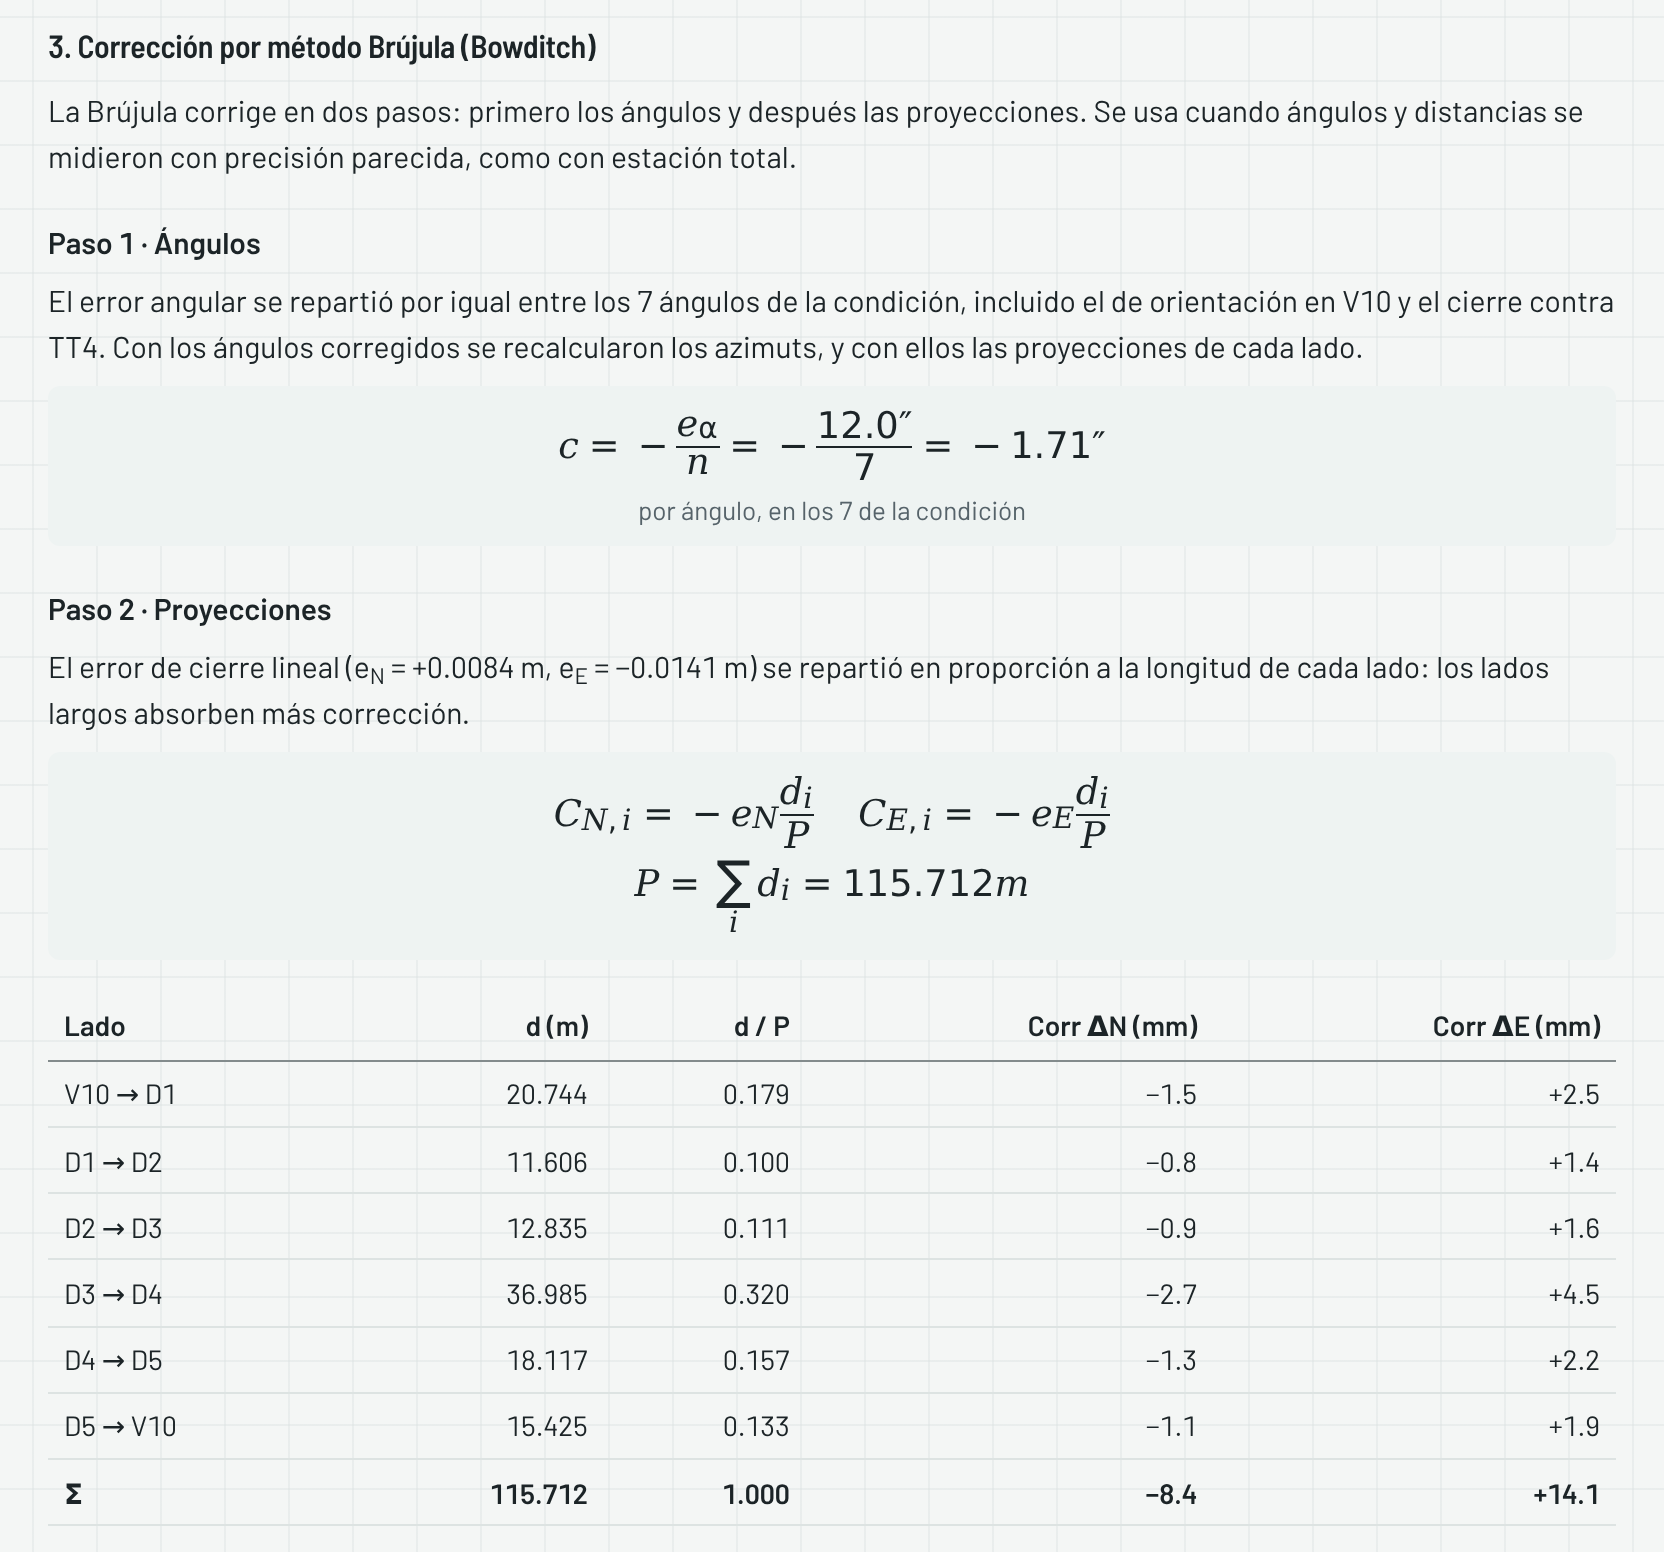
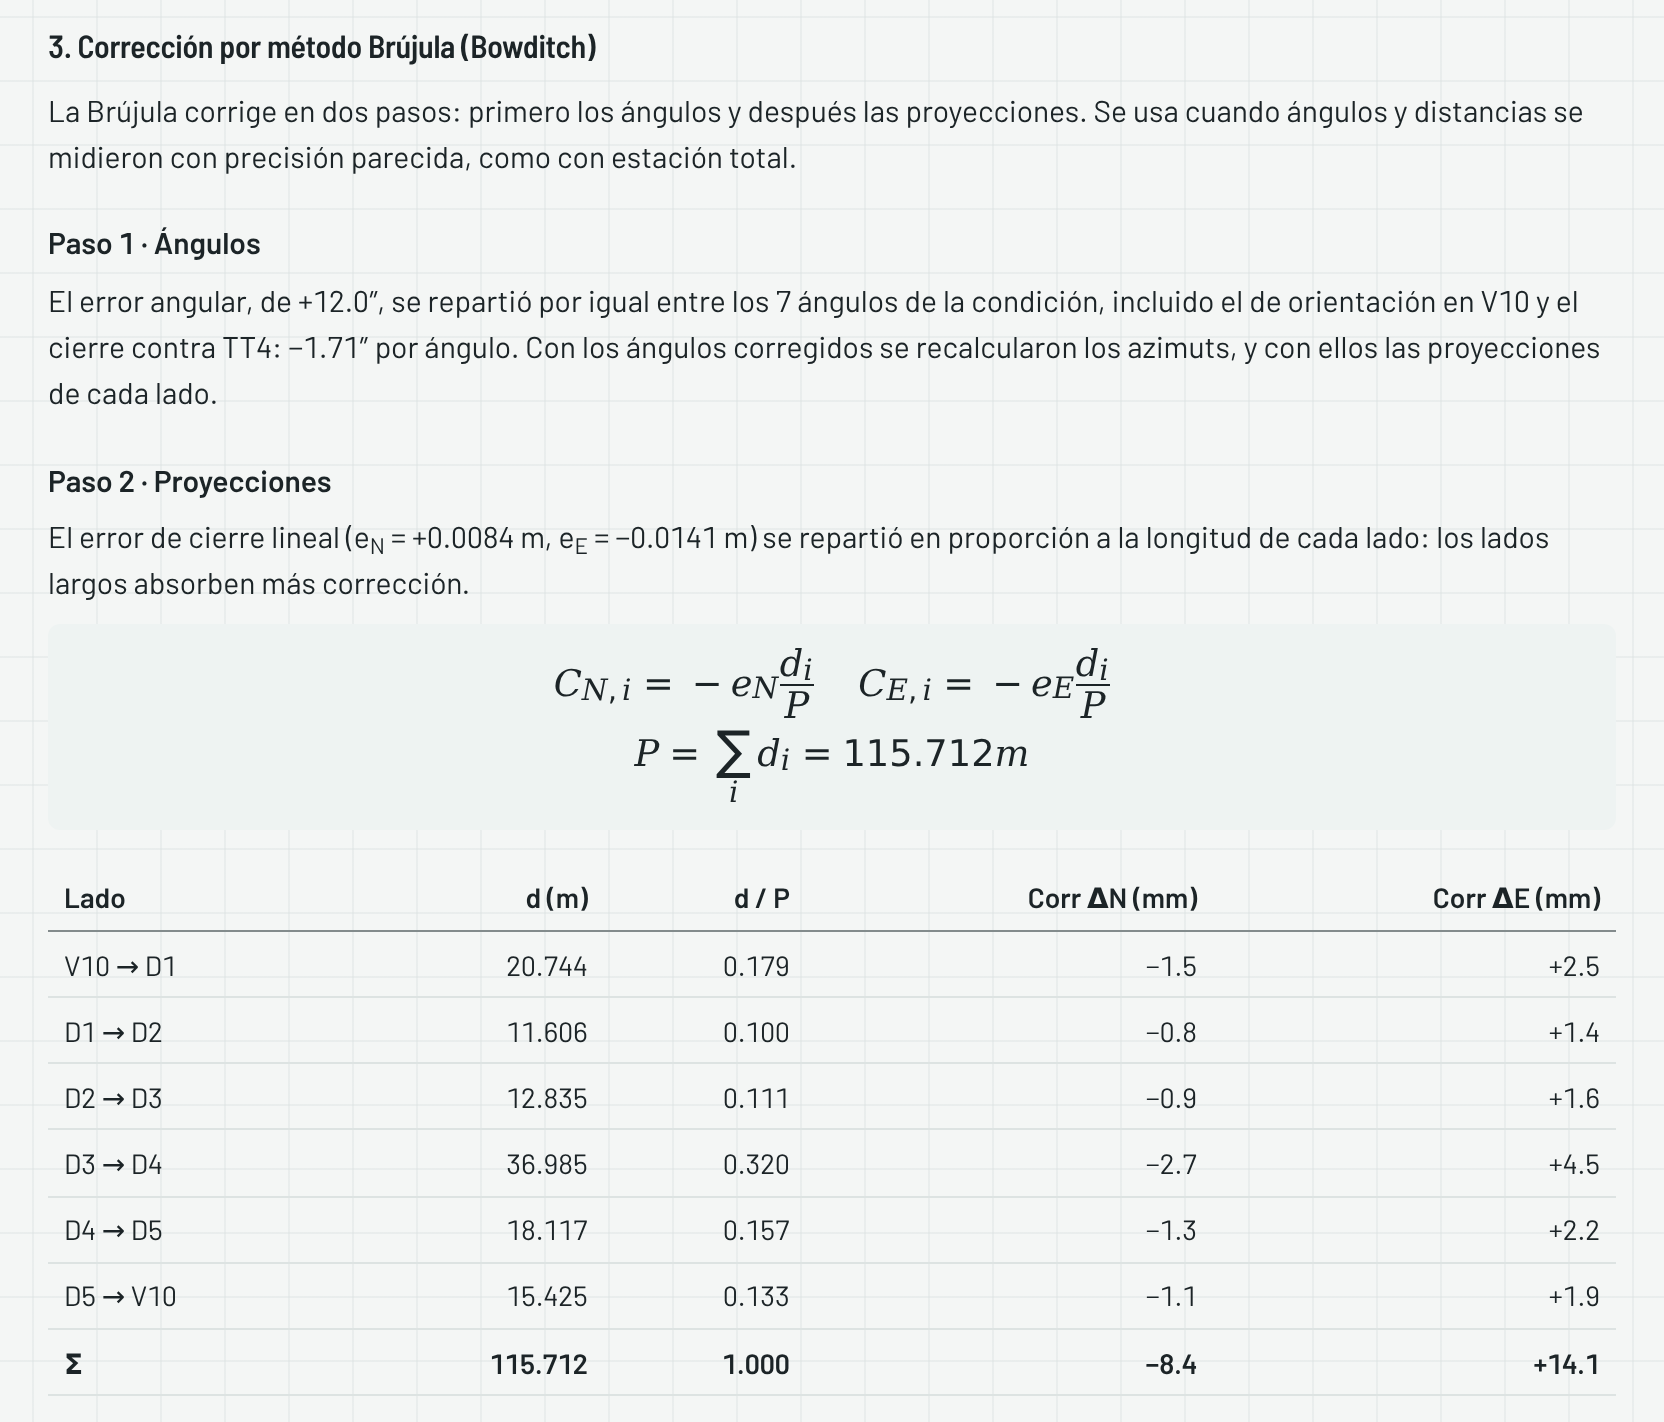
docs: el manual, con el informe como entregable (fase 40)

diff --git a/src/app/(app)/manual/page.tsx b/src/app/(app)/manual/page.tsx
@@ -1098,8 +1098,10 @@ export default function ManualPage() {
           </li>
           <li>
             <strong>Corrección por método …</strong>: cómo corrigió el método
-            elegido, paso a paso, con sus fórmulas en notación matemática y las
-            cifras de esta poligonal.
+            elegido, paso a paso, con las cifras de esta poligonal. El reparto
+            del error angular se dice con su valor por ángulo; el método de
+            ajuste —y, en mínimos cuadrados, la elipse de error— lleva su
+            fórmula en notación matemática.
           </li>
           <li>
             <strong>Poligonal ajustada</strong>, con la fila Σ.
@@ -2674,9 +2676,9 @@ export default function ManualPage() {
             las visitas se verifican (§ 7.9).
           </li>
           <li>
-            <strong>Cómo se calcula</strong>: cuatro fórmulas —la altura del
-            instrumento, la cota de cada punto, el acumulado y la velocidad— y
-            los umbrales del semáforo.
+            <strong>Cómo se calcula</strong>: en un párrafo, cómo salen la cota
+            de cada punto, el acumulado y la velocidad —con un mes de 30.4375
+            días—, y los umbrales del semáforo.
           </li>
           <li>
             <strong>Evolución</strong>: el acumulado de cada punto en el
@@ -2698,7 +2700,8 @@ export default function ManualPage() {
 
         <p>
           Informa las visitas <strong>calculadas</strong>: las que están en
-          medición se nombran aparte y entran cuando se terminan. Una visita no
+          medición se nombran aparte, con su fecha, como no incluidas, y entran
+          cuando se terminan. Una visita no
           tiene informe propio: sus resultados van en el del lugar.
         </p>
 
@@ -2880,23 +2883,31 @@ export default function ManualPage() {
             <strong>Observaciones</strong>: las notas del proceso —en un lugar,
             su descripción—, si las tiene.
           </li>
-          <li>
-            El <strong>pie</strong>, con la fecha en que se generó.
-          </li>
         </ul>
+        <p>
+          Es un documento para entregar: no nombra la aplicación ni habla de
+          sus pantallas. Un proceso sin terminar se informa como tal
+          —«Nivelación incompleta», «Poligonal incompleta»— con lo medido hasta
+          ahí.
+        </p>
         <p>
           <strong>Exportar PDF.</strong> Es el primer botón de la cabecera del
           informe. Abre el diálogo de impresión del navegador con el informe ya
           maquetado en A4: elija «Guardar como PDF» como destino. Lo impreso es
-          solo el informe: la cabecera, los pasos y los botones no salen.
+          solo el informe: la cabecera, los pasos y los botones no salen. Desde
+          la segunda página, cada una lleva al pie el proyecto y el proceso, y
+          «Página X de Y». El archivo se propone con el nombre del proceso y
+          del proyecto.
         </p>
         <p>
           <strong>Exportar Excel</strong>, a su lado, descarga el libro del
           proceso (§ 11).
         </p>
         <Nota>
-          El PDF lo genera su navegador, no la aplicación. Los márgenes y los
-          encabezados de página dependen de lo que usted elija en ese diálogo.
+          El PDF lo genera su navegador, no la aplicación. La portada va sin
+          márgenes para que el navegador no añada su propio encabezado ni su
+          pie —la dirección de la página y la fecha—. Si aun así aparecen,
+          desmarque «Encabezados y pies de página» en ese diálogo.
         </Nota>
       </Seccion>
 

diff --git a/src/app/(app)/manual/manual-data.ts b/src/app/(app)/manual/manual-data.ts
@@ -79,9 +79,9 @@ export const CAPTURAS = {
   },
   correccionInforme: {
     src: "/manual/10-correccion-informe.png",
-    alt: "Sección «3. Corrección por método Brújula (Bowditch)» del informe de la cartera TT4: el paso 1 reparte el error angular de 12.0″ entre los 7 ángulos, −1.71″ cada uno; el paso 2 reparte el error de cierre lineal en proporción a la longitud de cada lado, con sus fórmulas y la tabla de correcciones ΔN y ΔE por lado.",
+    alt: "Sección «3. Corrección por método Brújula (Bowditch)» del informe de la cartera TT4: el paso 1 reparte el error angular de +12.0″ entre los 7 ángulos, −1.71″ cada uno, dicho en el texto; el paso 2 reparte el error de cierre lineal en proporción a la longitud de cada lado, con la fórmula de la Brújula y la tabla de correcciones ΔN y ΔE por lado.",
     width: 1664,
-    height: 1552,
+    height: 1422,
   },
   nuevaNivelacion: {
     src: "/manual/11-nueva-nivelacion.png",
@@ -223,7 +223,7 @@ export const CAPTURAS = {
     src: "/manual/30-informe-del-proceso.png",
     alt: "Paso 3 · Informe de la poligonal V10, cartera TT4: la cabecera con Exportar PDF y Exportar Excel; portada; resultado con el orden alcanzado, datos de campo, corrección por método Brújula (Bowditch), poligonal ajustada y coordenadas con el dibujo; resumen de precisión y observaciones.",
     width: 2560,
-    height: 8412,
+    height: 8242,
   },
 } as const satisfies Record<string, Captura>;
 

diff --git a/docs/manual/README.md b/docs/manual/README.md
@@ -631,7 +631,9 @@ El informe de la poligonal (§ 10), con **Exportar PDF** y **Exportar Excel**
 2. **Datos de campo**: el amarre, las mediciones «desde → hacia» y el cierre
    angular, con su tolerancia.
 3. **Corrección por método …**: cómo corrigió el método elegido, paso a paso,
-   con sus fórmulas en notación matemática y las cifras de esta poligonal.
+   con las cifras de esta poligonal. El reparto del error angular se dice con
+   su valor por ángulo; el método de ajuste —y, en mínimos cuadrados, la
+   elipse de error— lleva su fórmula en notación matemática.
 4. **Poligonal ajustada**, con la fila Σ.
 5. **Coordenadas** y el dibujo.
 
@@ -1499,8 +1501,9 @@ PDF** y **Exportar Excel** (§ 11) en la cabecera. Sus datos y resultados son:
 2. **Veredicto**: la peor alerta de la última visita y el mayor acumulado, con
    lo que le falta para el umbral siguiente, y si las visitas se verifican
    (§ 7.9).
-3. **Cómo se calcula**: cuatro fórmulas —la altura del instrumento, la cota de
-   cada punto, el acumulado y la velocidad— y los umbrales del semáforo.
+3. **Cómo se calcula**: en un párrafo, cómo salen la cota de cada punto, el
+   acumulado y la velocidad —con un mes de 30.4375 días—, y los umbrales del
+   semáforo.
 4. **Evolución**: el acumulado de cada punto en el tiempo.
 5. **Visitas**: el promedio, el máximo, el mayor Δ, la verificación y la peor
    alerta de cada una.
@@ -1508,7 +1511,7 @@ PDF** y **Exportar Excel** (§ 11) en la cabecera. Sus datos y resultados son:
 7. **Notas de las visitas** y **avisos** de lecturas fuera de tendencia.
 
 Informa las visitas **calculadas**: las que están en medición se nombran
-aparte y entran cuando se terminan. Una visita no tiene informe propio: sus
+aparte, con su fecha, como no incluidas, y entran cuando se terminan. Una visita no tiene informe propio: sus
 resultados van en el del lugar.
 
 ### 7.13 Dar de baja y de alta un punto
@@ -1619,17 +1622,24 @@ y no lleva marca de borrador, porque ningún proceso se cierra (§ 8). Lleva:
   cumple.
 - **Observaciones**: las notas del proceso —en un lugar, su descripción—, si
   las tiene.
-- El **pie**, con la fecha en que se generó.
+
+Es un documento para entregar: no nombra la aplicación ni habla de sus
+pantallas. Un proceso sin terminar se informa como tal —«Nivelación
+incompleta», «Poligonal incompleta»— con lo medido hasta ahí.
 
 **Exportar PDF.** Es el primer botón de la cabecera del informe. Abre el
 diálogo de impresión del navegador con el informe ya maquetado en A4: elija
 «Guardar como PDF» como destino. Lo impreso es solo el informe: la cabecera,
-los pasos y los botones no salen.
+los pasos y los botones no salen. Desde la segunda página, cada una lleva al
+pie el proyecto y el proceso, y «Página X de Y». El archivo se propone con el
+nombre del proceso y del proyecto.
 
 **Exportar Excel**, a su lado, descarga el libro del proceso (§ 11).
 
-> El PDF lo genera su navegador, no la aplicación. Los márgenes y los
-> encabezados de página dependen de lo que usted elija en ese diálogo.
+> El PDF lo genera su navegador, no la aplicación. La portada va sin márgenes
+> para que el navegador no añada su propio encabezado ni su pie —la dirección
+> de la página y la fecha—. Si aun así aparecen, desmarque «Encabezados y pies
+> de página» en ese diálogo.
 
 ---
 
